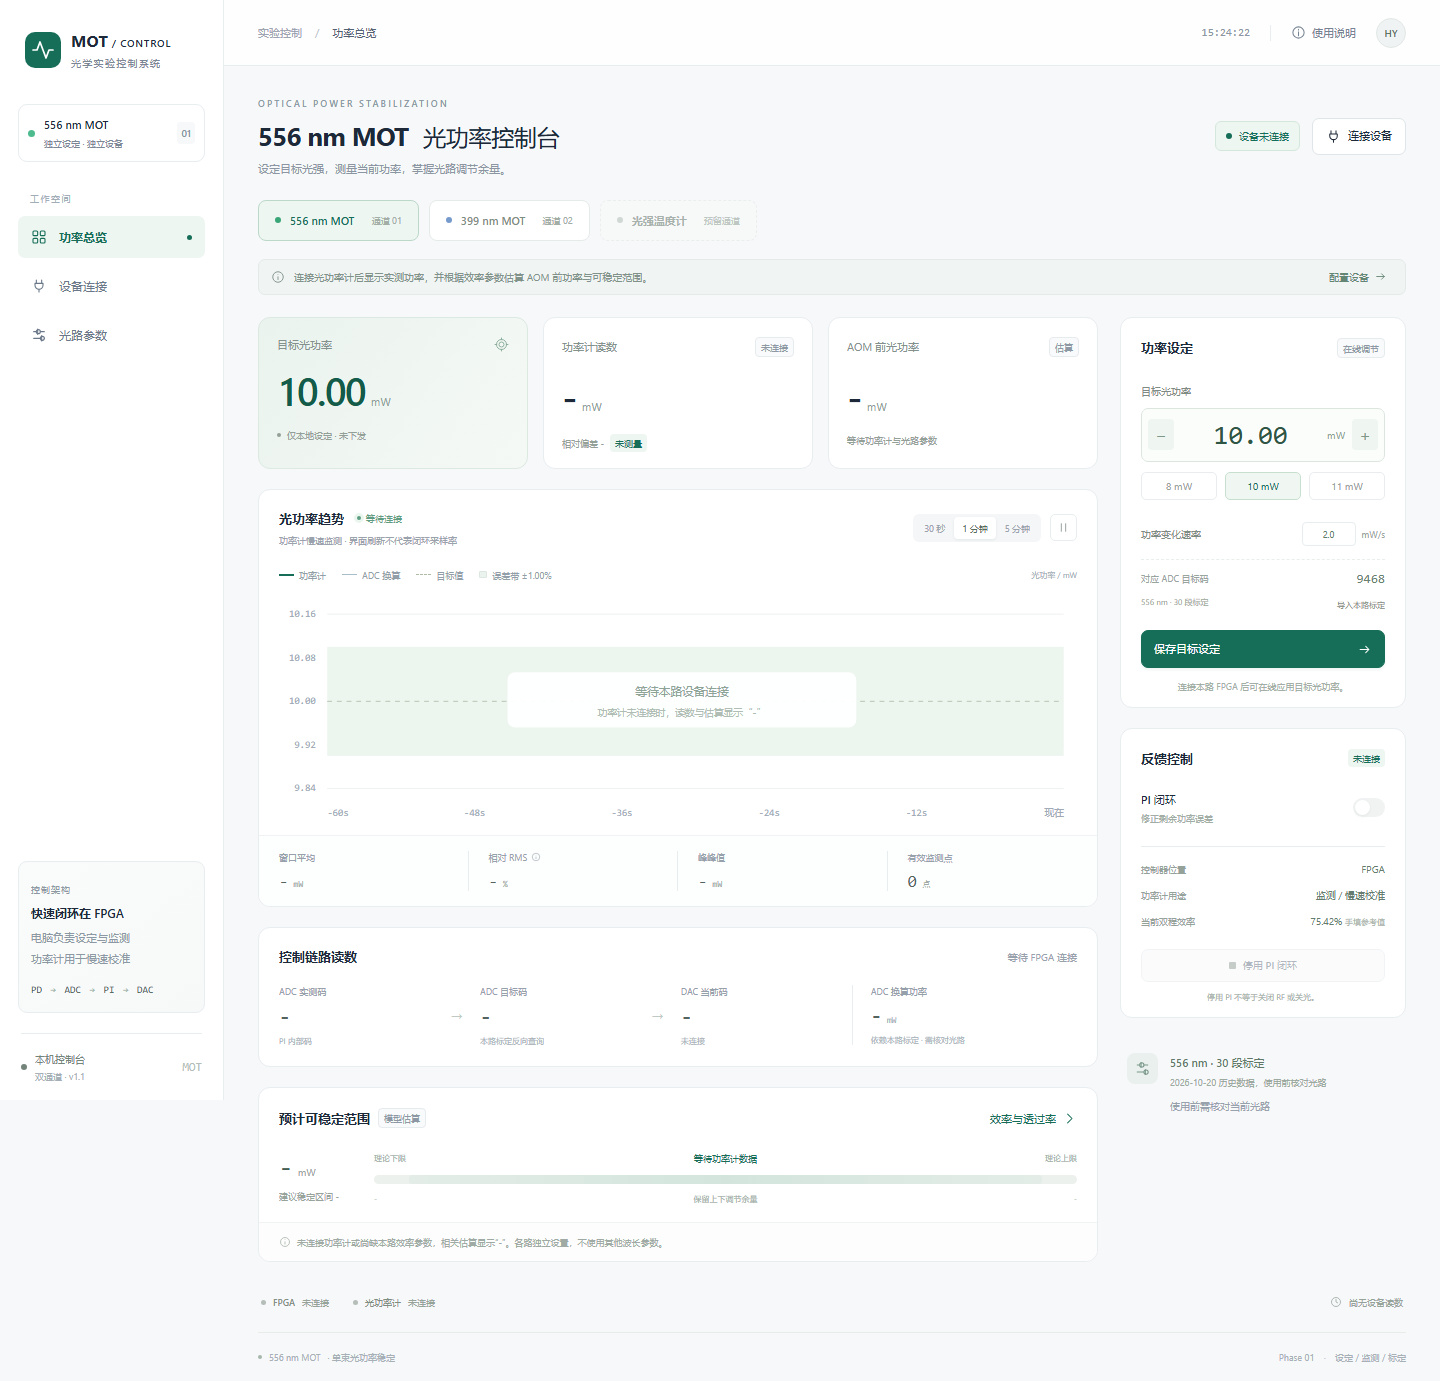
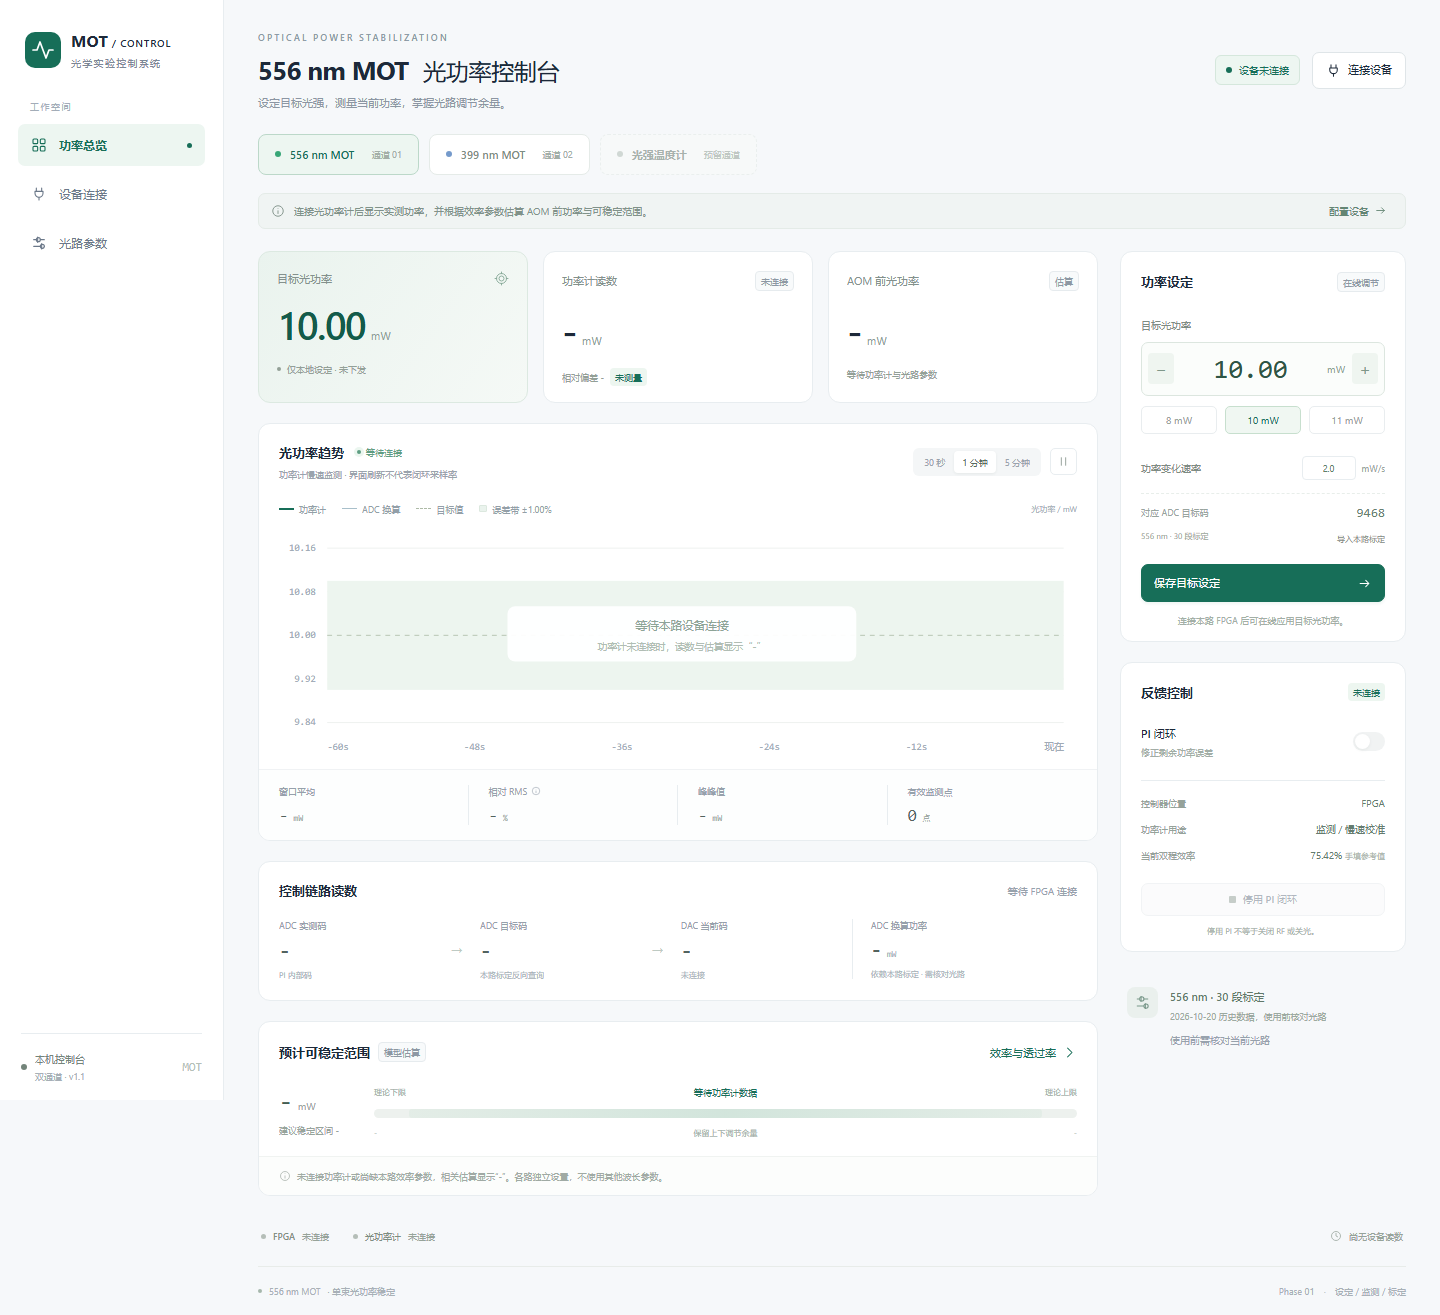
Remove redundant header and sidebar panels

diff --git a/index.html b/index.html
@@ -30,18 +30,18 @@
 </defs></svg>
 <aside class="sidebar">
  <a class="brand" href="#overview" aria-label="MOT Control 首页"><span class="brandmark"><svg><use href="#i-wave"/></svg></span><span>MOT<span class="brand-light"> / CONTROL</span><small>光学实验控制系统</small></span></a>
- <div class="workspace"><span class="workspace-dot"></span><div><span id="workspace-channel">556 nm MOT</span><small>独立设定 · 独立设备</small></div><span class="workspace-tag" id="workspace-number">01</span></div>
+
  <div class="nav-label">工作空间</div>
  <nav aria-label="主导航">
 <button class="nav-item active" id="nav-overview"><svg><use href="#i-grid"/></svg>功率总览<span class="nav-active-dot"></span></button>
 <button class="nav-item" id="nav-devices"><svg><use href="#i-plug"/></svg>设备连接</button>
 <button class="nav-item" id="nav-parameters"><svg><use href="#i-sliders"/></svg>光路参数</button>
 </nav>
- <div class="sidebar-note"><span class="tiny-tag">控制架构</span><strong>快速闭环在 FPGA</strong><p>电脑负责设定与监测<br>功率计用于慢速校准</p><div class="mini-chain">PD <span>→</span> ADC <span>→</span> PI <span>→</span> DAC</div></div>
+
  <div class="sidebar-bottom"><span class="small-dot"></span><span>本机控制台<small>双通道 · v1.1</small></span><span class="bottom-mark">MOT</span></div>
 </aside>
 <div class="shell">
- <header class="topbar"><div class="breadcrumbs">实验控制 <span>/</span> <b id="breadcrumb">功率总览</b></div><div class="top-actions"><span class="local-time" id="clock">--:--:--</span><span class="divider"></span><button class="text-button" id="help-button"><svg><use href="#i-info"/></svg>使用说明</button><span class="avatar">HY</span></div></header>
+
  <main>
   <section class="page-intro"><div><div class="eyebrow">OPTICAL POWER STABILIZATION</div><h1><b id="channel-title">556 nm MOT</b> <span>光功率控制台</span></h1><p>设定目标光强，测量当前功率，掌握光路调节余量。</p></div><div class="intro-actions"><span class="mode-pill hardware" id="mode-pill"><span class="small-dot"></span><span id="mode-text">设备未连接</span></span><button class="button" id="connect-button"><svg><use href="#i-plug"/></svg>连接设备</button></div></section>
   <div class="channel-tabs" role="tablist" aria-label="光路通道">
@@ -90,7 +90,7 @@
 
 <dialog id="range-dialog"><div class="dialog-heading"><div><span class="eyebrow">OPTICAL PATH PARAMETERS</span><h2 id="range-dialog-title">556 nm · AOM 功率与范围估算</h2></div><button class="icon-button close-dialog" aria-label="关闭"><svg><use href="#i-x"/></svg></button></div><p class="dialog-description">功率取自连接的功率计。请填写同一工作点的双程效率；改变 RF / DAC 后需要更新效率。未知参数可留空。556 nm 的初始 60%–85% 仅为假设范围。</p><form id="range-form"><div class="form-grid"><label>当前双程效率 η / %<input name="efficiency" type="number" min="0.01" max="100" step="any" placeholder="未知则留空"></label><label>下游透过率 T / %<input name="transmission" type="number" min="0.01" max="100" step="any" placeholder="未知则留空"></label><label>最小双程效率 / %<input name="minimum" type="number" min="0.01" max="100" step="any" placeholder="未知则留空"></label><label>最大双程效率 / %<input name="maximum" type="number" min="0.01" max="100" step="any" placeholder="未知则留空"></label><label>每侧预留跨度 / %<input name="margin" type="number" min="0" max="49" step="any" required></label><label>误差带 / %<input name="tolerance" type="number" min="0.01" max="20" step="any" required></label></div><div class="info-box"><svg><use href="#i-info"/></svg><p>AOM 前功率 = 功率计读数 ÷ (η × T)。理论上下限 = 功率计读数 × 最小或最大效率 ÷ η。仅当功率计位于 AOM 出口、没有下游损耗时，T 才可填 100%。</p></div><p class="field-error" id="range-error" role="alert"></p><div class="dialog-footer"><span>无功率计数据时，估算结果显示“-”</span><button type="submit" class="button primary">保存参数</button></div></form></dialog>
 
-<dialog id="help-dialog"><div class="dialog-heading"><h2>使用说明</h2><button class="icon-button close-dialog" aria-label="关闭"><svg><use href="#i-x"/></svg></button></div><div class="help-steps"><div><b>01</b><p><strong>连接仪器</strong>双击 start.cmd，填写串口与功率计序列号。连接 FPGA 时只读状态，不自动修改目标。</p></div><div><b>02</b><p><strong>填写效率与透过率</strong>填写当前工作点的双程效率与下游透过率。透过率未知可留空，AOM 前功率显示“-”。</p></div><div><b>03</b><p><strong>设置目标功率</strong>输入 mW 并点击应用。电脑通过 30 段标定换算 ADC 目标码，按设定速率更新并读回。</p></div></div><div class="dialog-footer"><span>功率计未连接时，实测与估算显示“-”。</span><button class="button primary close-dialog">知道了</button></div></dialog>
+
 <div class="toast-stack" id="toast-stack" role="status" aria-live="polite"></div>
 </body>
 </html>

diff --git a/app.js b/app.js
@@ -95,7 +95,7 @@
   $('pi-toggle').onclick = () => setPi(!current().snapshot?.fpga.pi_enabled); $('stop-loop').onclick = () => setPi(false);
   all('.close-dialog').forEach(b => b.onclick = () => b.closest('dialog').close());
   all('dialog').forEach(d => d.onclick = e => { if (e.target === d) { const r = d.getBoundingClientRect(); if (e.clientX < r.left || e.clientX > r.right || e.clientY < r.top || e.clientY > r.bottom) d.close(); } });
-  $('help-button').onclick = () => $('help-dialog').showModal(); $('nav-overview').onclick = () => window.scrollTo({ top: 0, behavior: 'smooth' });
+  $('nav-overview').onclick = () => window.scrollTo({ top: 0, behavior: 'smooth' });
   async function inspectService() {
     try { const value = await api('/api/ports'); $('serial-ports').innerHTML = value.ports.map(p => `<option value="${escape(p.device)}">${escape(p.description)}</option>`).join(''); $('service-state').textContent = `本机服务就绪 · 发现 ${value.ports.length} 个串口`; }
     catch (e) { $('service-state').textContent = e.message; }
@@ -173,8 +173,7 @@
   function statusText(status) { const a = [[1, '丢光'], [2, 'ADC 过量程'], [4, '输出饱和'], [8, '积分到限'], [16, '反馈冻结'], [32, 'ADC 时钟停止']].filter(([b]) => status & b).map(([, s]) => s); return a.length ? a.join(' / ') : '正常'; }
   function render() {
     const s = current(), config = s.config, cal = s.calibration, r = readings(s), f = r.f, m = r.m, busy = anyBusy();
-    $('clock').textContent = new Date().toLocaleTimeString('zh-CN', { hour12: false, timeZone: 'Asia/Hong_Kong' });
-    $('channel-title').textContent = `${channelId} nm MOT`; $('workspace-channel').textContent = `${channelId} nm MOT`; $('workspace-number').textContent = channelId === '556' ? '01' : '02'; $('footer-channel').textContent = `${channelId} nm MOT`;
+    $('channel-title').textContent = `${channelId} nm MOT`; $('footer-channel').textContent = `${channelId} nm MOT`;
     document.title = `${channelId} nm MOT · PID Control Console`;
     $('connect-dialog-title').textContent = `连接 ${channelId} nm 设备`; $('range-dialog-title').textContent = `${channelId} nm · AOM 功率与范围估算`;
     $('meter-wavelength-note').textContent = `使用本机 TLPMX 64 位驱动，连接后设置并回读 ${channelId} nm。`;

diff --git a/styles.css b/styles.css
@@ -10,3 +10,5 @@
 h1>b{font-weight:650}.channel-tabs{display:flex;gap:10px;margin:0 0 18px}.channel-tab{display:flex;align-items:center;gap:9px;min-width:0;padding:12px 16px;background:#fff;border:1px solid #e5ebe8;border-radius:8px;color:#7d8d84}.channel-tab strong{font-size:11px;font-weight:550}.channel-tab>span{font-size:9px;color:#a3aea7;margin-left:8px}.channel-tab.active{background:#edf6f1;border-color:#bcd8c9;color:#176e58}.channel-tab[data-channel="399"].active{background:#eef3fb;border-color:#c5d5ed;color:#496d9c}.channel-dot{width:6px;height:6px;border-radius:50%;background:#38a677;flex-shrink:0}.channel-dot.blue{background:#759acb}.channel-dot.gray{background:#bdc7c0}.channel-tab.reserved{background:#f8faf9;border-style:dashed;opacity:.65}.calibration-inline{display:flex;justify-content:space-between;gap:8px;margin-top:10px;color:#9caaa1;font-size:8px}.calibration-inline .text-button{font-size:8px;cursor:pointer}.channel-calibration-missing{color:#ac8852}.workspace>#workspace-channel{font-size:11px}
 @media(max-width:850px){.channel-tab{padding:11px 12px}.channel-tab>span{display:none}.channel-tabs{gap:8px}}
 @media(max-width:600px){.channel-tabs{gap:6px;flex-wrap:wrap}.channel-tab{padding:10px;gap:6px}.channel-tab strong{font-size:10px}.channel-tab.reserved strong{font-size:9px}}
+
+.sidebar-bottom{margin-top:auto}
